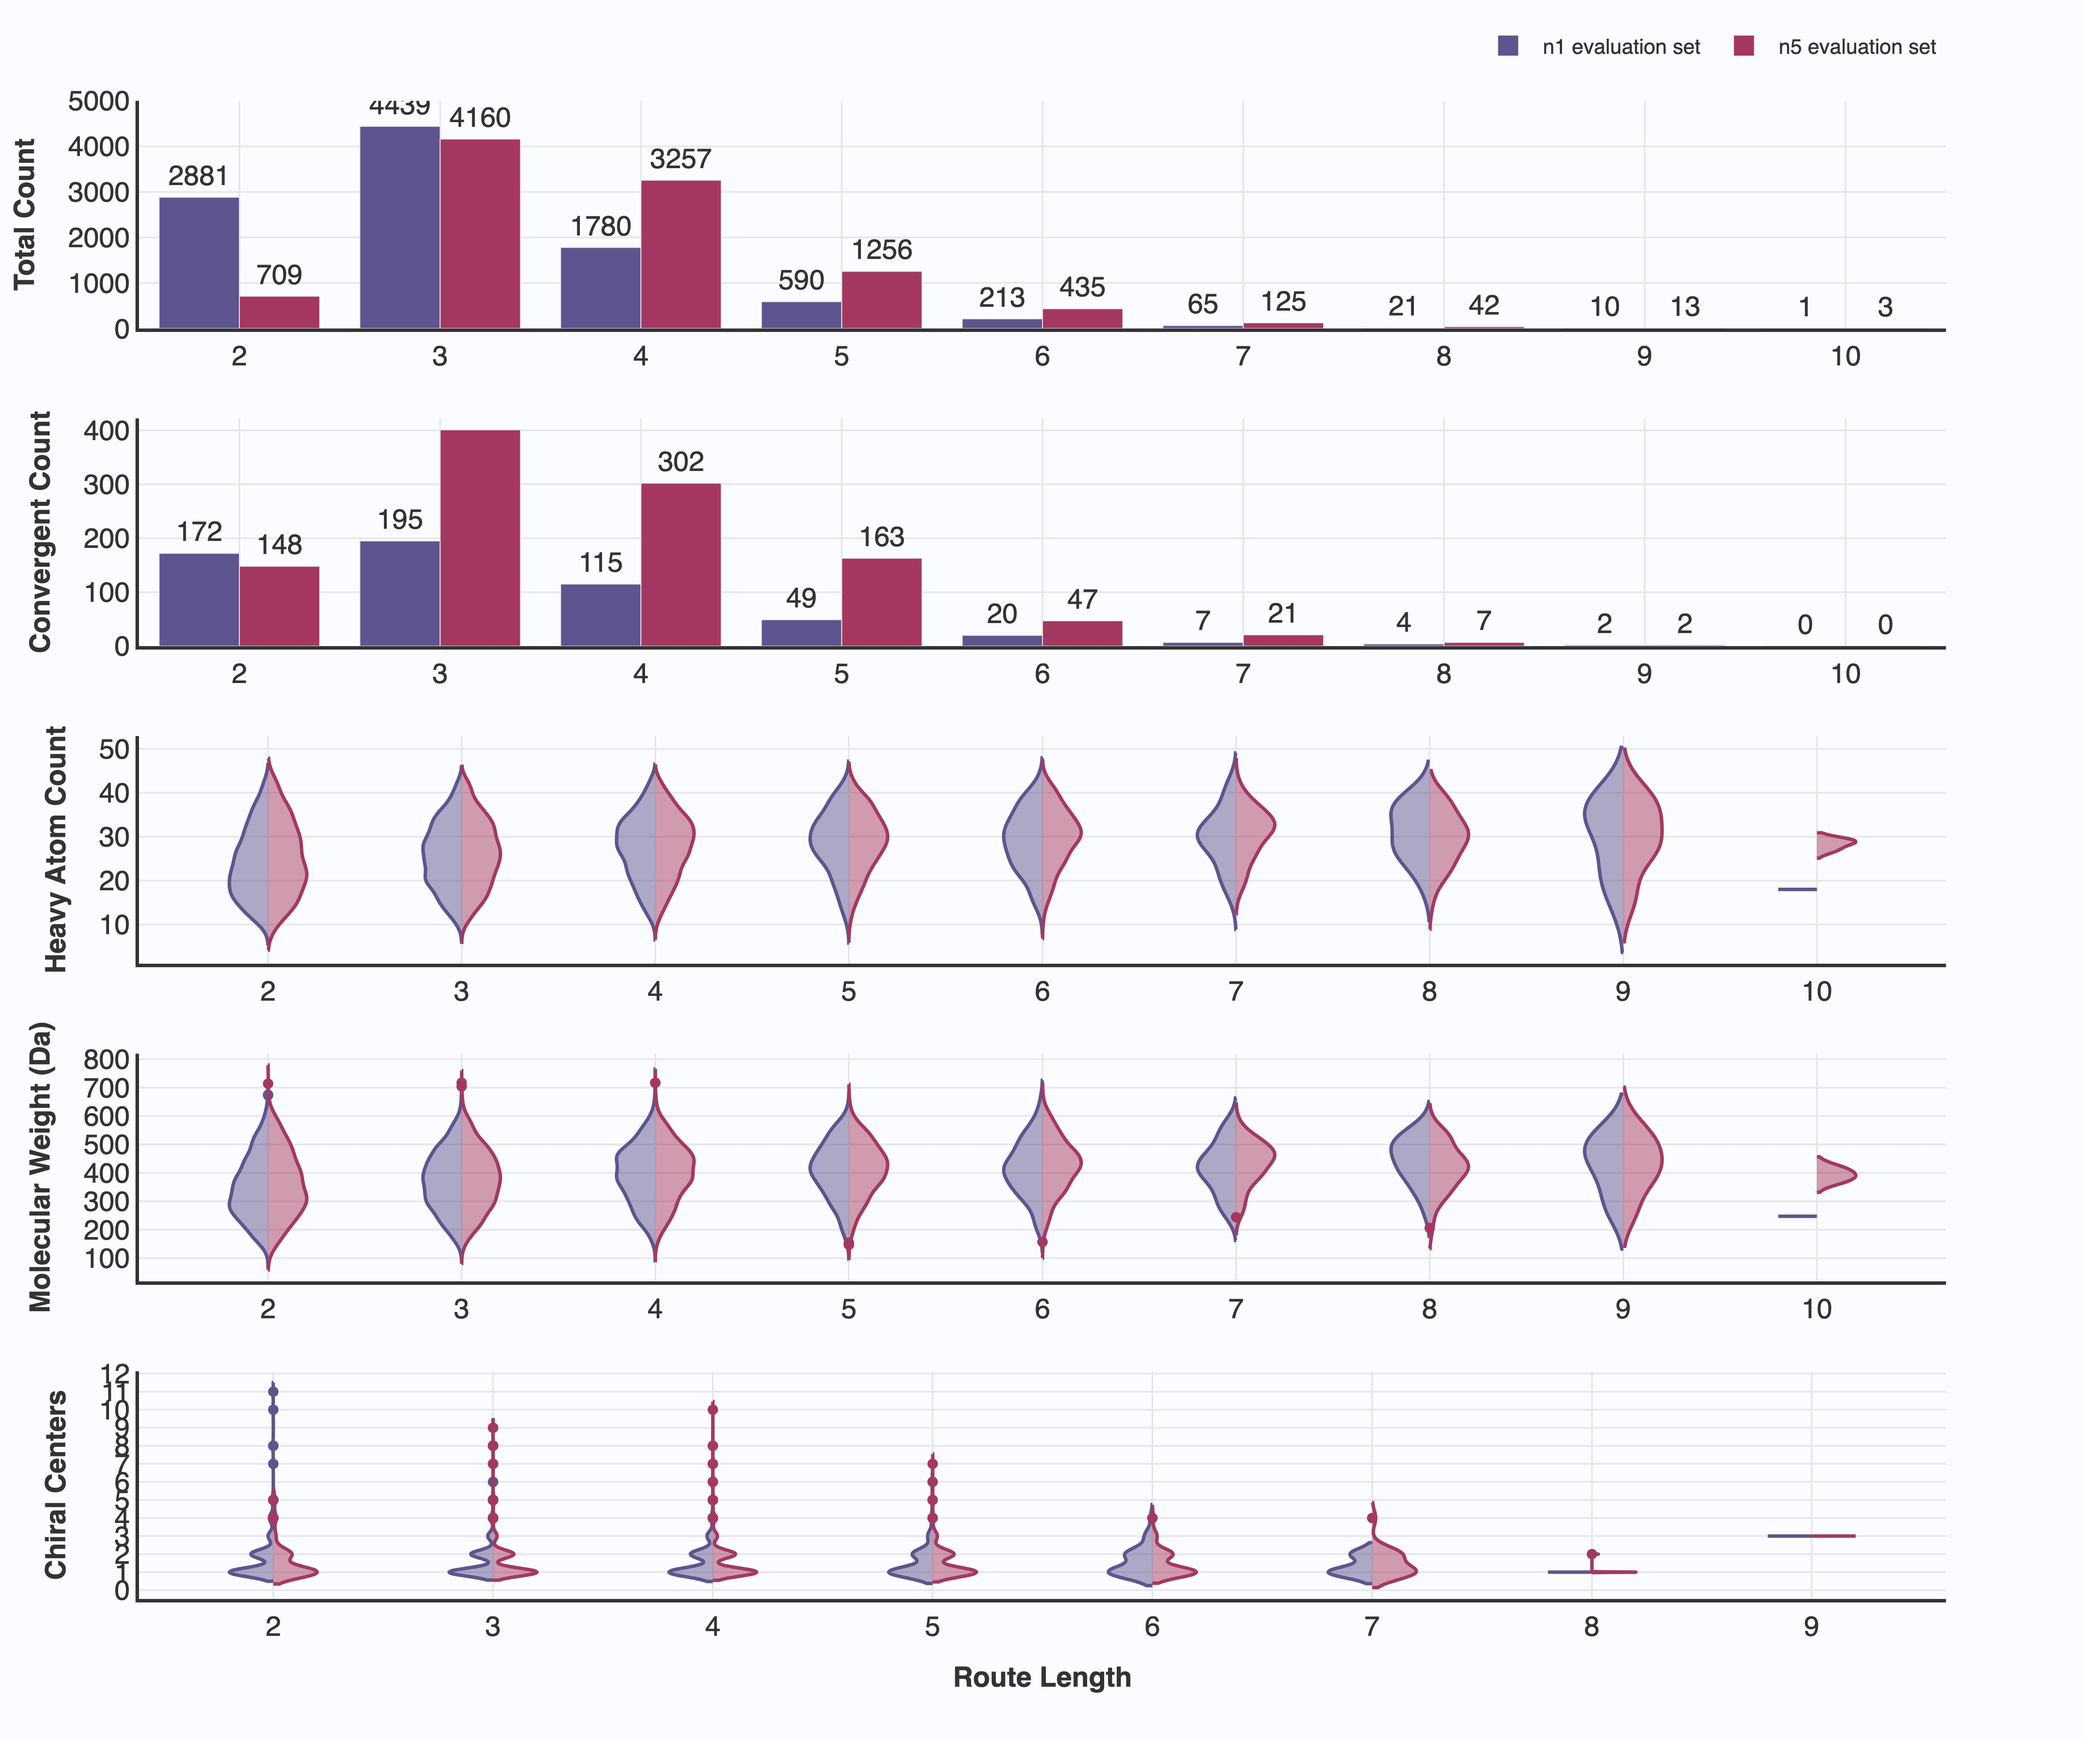
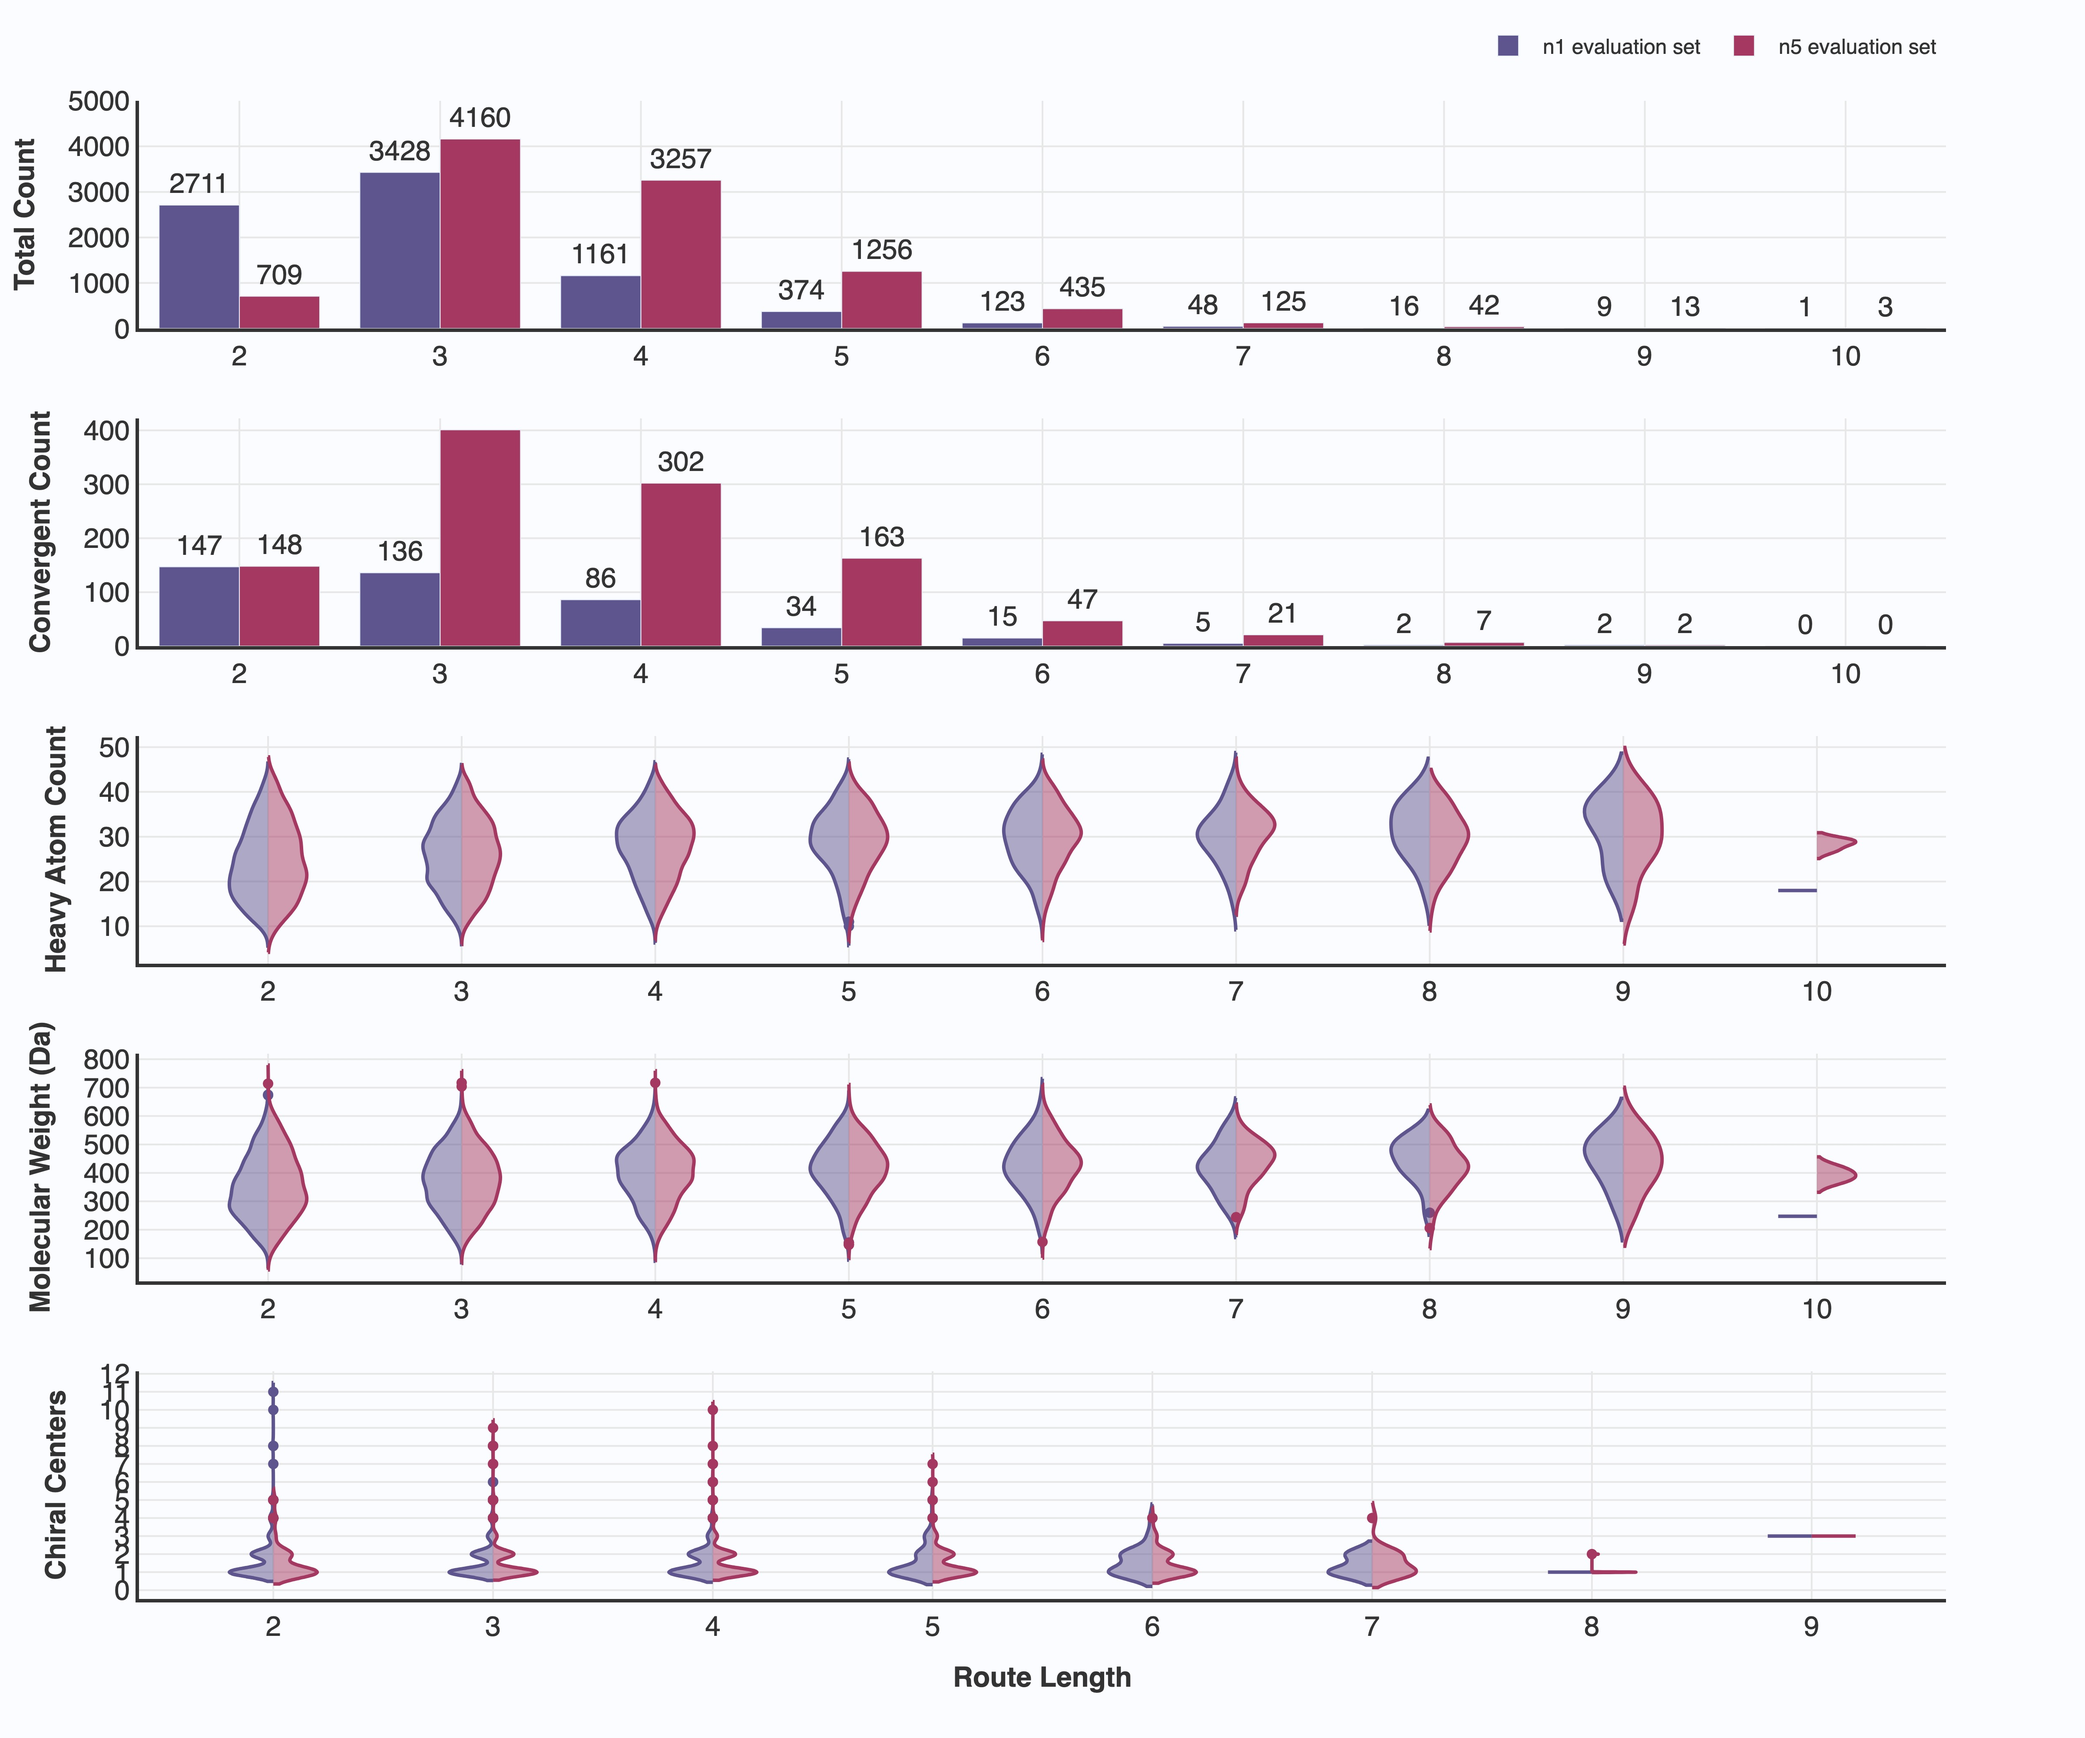
dev: create smiles to id index

diff --git a/scripts/paroutes/1-cast-raw-routes.py b/scripts/paroutes/1-cast-raw-routes.py
@@ -7,8 +7,8 @@ with a manifest containing file hashes for verification.
 
 Usage:
     uv run scripts/paroutes/1-cast-raw-routes.py all-routes
-    uv run scripts/paroutes/1-cast-raw-routes.py n1-routes
     uv run scripts/paroutes/1-cast-raw-routes.py n5-routes
+    uv run scripts/paroutes/1-cast-raw-routes.py n1-routes --exclude-signatures-from data/paroutes/processed/n5-routes.json.gz
 """
 
 import argparse
@@ -17,10 +17,10 @@ from pathlib import Path
 from tqdm import tqdm
 
 from retrocast import Route, TargetInput, adapt_single_route, deduplicate_routes
-from retrocast.curation import create_manifest
+from retrocast.curation import create_manifest, filter_routes_by_signature, get_route_signatures
 from retrocast.domain.chem import canonicalize_smiles
 from retrocast.exceptions import RetroCastException
-from retrocast.io import load_raw_routes, save_json, save_routes
+from retrocast.io import load_raw_routes, load_routes, save_json, save_routes, save_smiles_index
 from retrocast.utils.logging import logger
 
 BASE_DIR = Path(__file__).resolve().parents[2]
@@ -61,6 +61,17 @@ def adapt_routes(raw_routes: list[dict], dataset_prefix: str) -> dict[str, list[
     return adapted_routes
 
 
+def build_smiles_index(routes: dict[str, list[Route]]) -> dict[str, str]:
+    """Build a SMILES to target ID index from routes."""
+    index = {}
+    for target_id, route_list in routes.items():
+        if route_list:
+            # All routes for a target should have the same target SMILES
+            smiles = route_list[0].target.smiles
+            index[smiles] = target_id
+    return index
+
+
 def main() -> None:
     """Main script execution."""
     parser = argparse.ArgumentParser(
@@ -73,6 +84,11 @@ def main() -> None:
         choices=VALID_DATASETS,
         help="Name of the PaRoutes dataset to convert (without .json.gz extension)",
     )
+    parser.add_argument(
+        "--exclude-signatures-from",
+        type=Path,
+        help="Path to a processed routes file. Routes with matching signatures will be excluded.",
+    )
     args = parser.parse_args()
     dataset_name = args.dataset
 
@@ -80,11 +96,25 @@ def main() -> None:
     OUTPUT_DIR.mkdir(parents=True, exist_ok=True)
     output_file = OUTPUT_DIR / f"{dataset_name}.json.gz"
     manifest_file = OUTPUT_DIR / f"{dataset_name}-manifest.json"
+    index_file = OUTPUT_DIR / f"{dataset_name}-smiles-index.json.gz"
 
     raw_routes = load_raw_routes(input_file)
 
     dataset_prefix = dataset_name.replace("-routes", "")
     adapted_routes = adapt_routes(raw_routes, dataset_prefix)
+
+    # Filter out routes that match signatures from another dataset
+    exclude_signatures: set[str] = set()
+    if args.exclude_signatures_from:
+        logger.info(f"Loading routes to exclude from {args.exclude_signatures_from}...")
+        exclude_routes = load_routes(args.exclude_signatures_from)
+        exclude_signatures = get_route_signatures(exclude_routes)
+        logger.info(f"Found {len(exclude_signatures)} signatures to exclude.")
+
+        original_count = sum(len(r) for r in adapted_routes.values())
+        adapted_routes = filter_routes_by_signature(adapted_routes, exclude_signatures)
+        filtered_count = sum(len(r) for r in adapted_routes.values())
+        logger.info(f"Filtered out {original_count - filtered_count} duplicate routes.")
 
     if not adapted_routes:
         logger.error("No routes were successfully adapted. No output files will be written.")
@@ -93,9 +123,14 @@ def main() -> None:
     logger.info(f"Saving adapted routes to {output_file.relative_to(BASE_DIR)}...")
     save_routes(adapted_routes, output_file)
 
+    # Save SMILES to target ID index
+    smiles_index = build_smiles_index(adapted_routes)
+    save_smiles_index(smiles_index, index_file)
+
     statistics = {
         "n_routes_source": len(raw_routes),
         "n_routes_saved": sum(len(r) for r in adapted_routes.values()),
+        "n_routes_excluded": len(exclude_signatures) if exclude_signatures else 0,
     }
     manifest = create_manifest(dataset_name, input_file, output_file, adapted_routes, statistics)
     save_json(manifest, manifest_file)

diff --git a/tests/test_io.py b/tests/test_io.py
@@ -22,6 +22,7 @@ from retrocast.io import (
     load_json_gz,
     load_raw_routes,
     load_routes,
+    load_smiles_index,
     load_target_ids,
     load_targets_csv,
     load_targets_json,
@@ -29,6 +30,7 @@ from retrocast.io import (
     save_json,
     save_json_gz,
     save_routes,
+    save_smiles_index,
 )
 from retrocast.schemas import Molecule, Route
 from retrocast.typing import InchiKeyStr, SmilesStr
@@ -610,3 +612,70 @@ def test_load_raw_routes_raises_on_malformed_json(tmp_path: Path) -> None:
 
     with pytest.raises(RetroCastIOError):
         load_raw_routes(file_path)
+
+
+# ==============================================================================
+# save_smiles_index and load_smiles_index Tests
+# ==============================================================================
+
+
+def test_save_and_load_smiles_index_roundtrip(tmp_path: Path) -> None:
+    """Test that SMILES index can be saved and loaded back correctly."""
+    index = {"CCO": "n5-00001", "c1ccccc1": "n5-00002", "CC(=O)O": "n5-00003"}
+    file_path = tmp_path / "smiles_index.json"
+
+    save_smiles_index(index, file_path)
+    loaded_index = load_smiles_index(file_path)
+
+    assert loaded_index == index
+
+
+def test_save_smiles_index_creates_directories(tmp_path: Path) -> None:
+    """Verify that save_smiles_index creates missing parent directories."""
+    index = {"CCO": "n5-00001"}
+    file_path = tmp_path / "nested" / "dir" / "smiles_index.json"
+
+    save_smiles_index(index, file_path)
+    assert file_path.exists()
+
+
+def test_save_smiles_index_empty_dict(tmp_path: Path) -> None:
+    """Test saving an empty SMILES index."""
+    file_path = tmp_path / "empty_index.json"
+    save_smiles_index({}, file_path)
+    loaded = load_smiles_index(file_path)
+    assert loaded == {}
+
+
+def test_load_smiles_index_raises_on_missing_file(tmp_path: Path) -> None:
+    """Missing files raise RetroCastIOError when loading SMILES index."""
+    with pytest.raises(RetroCastIOError):
+        load_smiles_index(tmp_path / "nonexistent.json")
+
+
+def test_load_smiles_index_raises_on_non_dict(tmp_path: Path) -> None:
+    """Non-dict JSON content raises RetroCastIOError."""
+    file_path = tmp_path / "list.json"
+    file_path.write_text('["not", "a", "dict"]')
+    with pytest.raises(RetroCastIOError):
+        load_smiles_index(file_path)
+
+
+def test_load_smiles_index_raises_on_malformed_json(tmp_path: Path) -> None:
+    """Malformed JSON raises RetroCastIOError."""
+    file_path = tmp_path / "bad.json"
+    file_path.write_text("{'invalid': json}")
+    with pytest.raises(RetroCastIOError):
+        load_smiles_index(file_path)
+
+
+def test_save_and_load_smiles_index_gzipped(tmp_path: Path) -> None:
+    """Test that SMILES index can be saved and loaded as gzipped JSON."""
+    index = {"CCO": "n5-00001", "c1ccccc1": "n5-00002"}
+    file_path = tmp_path / "smiles_index.json.gz"
+
+    save_smiles_index(index, file_path)
+    assert file_path.exists()
+
+    loaded_index = load_smiles_index(file_path)
+    assert loaded_index == index

diff --git a/src/retrocast/io.py b/src/retrocast/io.py
@@ -349,3 +349,47 @@ def save_reaction_smiles(reactions: set[str] | list[str], path: Path) -> None:
     except OSError as e:
         logger.error(f"Failed to write reaction SMILES to {path}: {e}")
         raise RetroCastIOError(f"Failed to save reaction SMILES to {path}: {e}") from e
+
+
+def save_smiles_index(index: dict[str, str], path: Path) -> None:
+    """
+    Save a SMILES to target ID mapping as gzipped JSON.
+
+    Args:
+        index: Dictionary mapping SMILES strings to target IDs.
+        path: Path to the output JSON file (can be .json or .json.gz).
+    """
+    if path.suffix == ".gz":
+        save_json_gz(index, path)
+    else:
+        save_json(index, path)
+    logger.info(f"Saved SMILES index with {len(index)} entries to {path}")
+
+
+def load_smiles_index(path: Path) -> dict[str, str]:
+    """
+    Load a SMILES to target ID mapping from JSON.
+
+    Args:
+        path: Path to the JSON file containing the SMILES index (can be .json or .json.gz).
+
+    Returns:
+        Dictionary mapping SMILES strings to target IDs.
+
+    Raises:
+        RetroCastIOError: If the file cannot be read or parsed.
+    """
+    try:
+        if path.suffix == ".gz":
+            with gzip.open(path, "rt", encoding="utf-8") as f:
+                data = json.load(f)
+        else:
+            with path.open("r", encoding="utf-8") as f:
+                data = json.load(f)
+        if not isinstance(data, dict):
+            raise RetroCastIOError(f"Expected JSON object (dict), found {type(data)} in {path}")
+        logger.info(f"Loaded SMILES index with {len(data)} entries from {path}")
+        return data
+    except (OSError, gzip.BadGzipFile, json.JSONDecodeError) as e:
+        logger.error(f"Failed to load or parse SMILES index file: {path}")
+        raise RetroCastIOError(f"SMILES index loading error on {path}: {e}") from e

diff --git a/scripts/directmultistep/dev-adapt-par-predictions.py b/scripts/directmultistep/dev-adapt-par-predictions.py
@@ -1,0 +1,18 @@
+import pickle
+from pathlib import Path
+
+base_dir = Path(__file__).resolve().parents[2]
+EVAL_DIR = base_dir / "data" / "evaluations"
+
+
+n1_preds = EVAL_DIR / "dms-flash-fp16" / "n1" / "n1_correct_paths_NS2n.pkl"
+n5_preds = EVAL_DIR / "dms-flash-fp16" / "n5" / "n5_correct_paths_NS2n.pkl"
+
+
+with open(n1_preds, "rb") as f:
+    n1_correct_paths: list[list[str]] = pickle.load(f)
+
+for predictions in n1_correct_paths:
+    # predictions is a list of strings representing routes predicted for a single target
+    for str_route in predictions:
+        route = eval(str_route)
